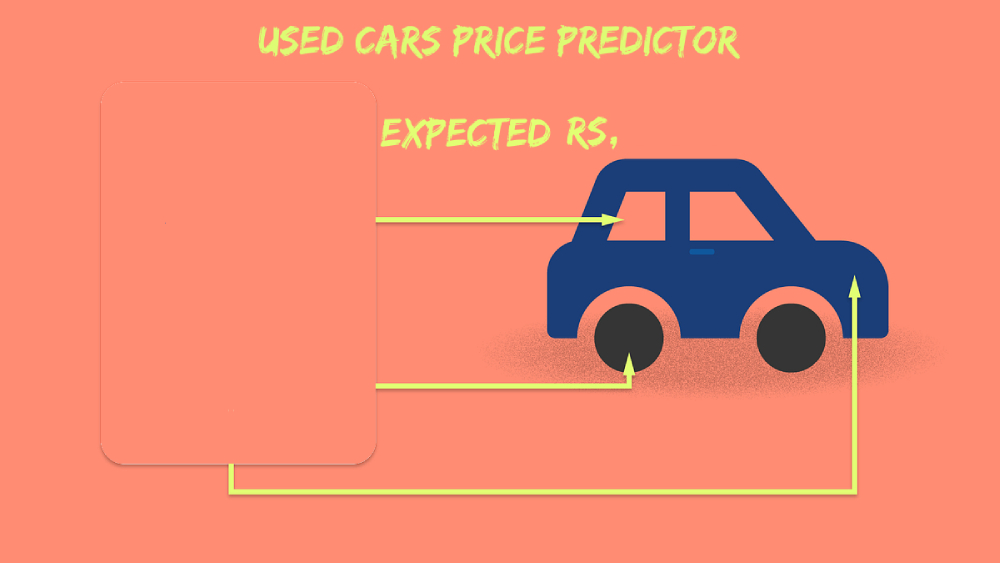
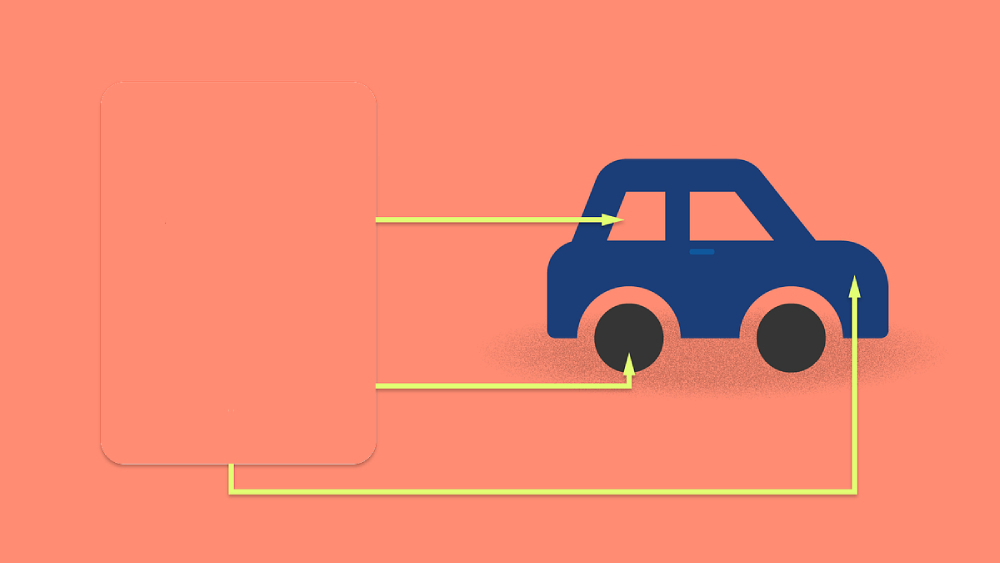
updated Version

Changed region(s): [[0.248, 0.0302, 0.744, 0.1208], [0.372, 0.2114, 0.62, 0.2718]]

diff --git a/templates/home.html b/templates/home.html
@@ -4,7 +4,7 @@
 <head>
     <meta charset="UTF-8">
     <meta name="viewport" content="width=device-width, initial-scale=1.0">
-    <link rel="stylesheet" href="https://cdnjs.cloudflare.com/ajax/libs/font-awesome/5.15.1/css/all.min.css">
+    <link rel="stylesheet" href="https://cdnjs.cloudflare.com/ajax/libs/font-awesome/6.0.0/css/all.min.css">
     <title>ML API</title>
 
 <style>
@@ -49,12 +49,12 @@ input[type="text"] {
     }
     .center {   
       position: absolute;
-      top: 180px; /* adjust the top position as needed */
-      left: 180px; /* adjust the left position as needed */
-      width: 450px; /* set the width of the table */
-      height: 600px;
+      top: 130px; /* adjust the top position as needed */
+      left: 160px; /* adjust the left position as needed */
+      width: 400px; /* set the width of the table */
+      height: 340px;
       border-collapse: collapse;
-      background-color: #ff8c73; /* set the background color with transparency */
+      background-color: #ff8c73; /* set the background color with transparency Orginal color  #ff8c73; */
       font-style:'edo_sz',;
       color: rgb(255, 255, 255);
       outline-color: #333;
@@ -63,7 +63,7 @@ input[type="text"] {
       border: 1px solid #ff8c73;
       padding: 8px;
       text-align: left;   
-      font-size: 22px;  
+      font-size: 18px;  
       text-shadow: -1px -1px 0 #000, 1px -1px 0 #000, -1px 1px 0 #000, 1px 1px 0 #000;;
     }
     .Header{
@@ -75,20 +75,27 @@ input[type="text"] {
         z-index: 1; 
     }
     .btn-primary{
-        height: 50px; 
-        width: 100px;
+        height: 30px; 
+        width: 70px;
         font-size: large;
     }
     .prediction-text {
-        top: 225px;
-        left: 1050px;
+        top: 210px;
+        left: 650px;
         position:absolute;
         font-size: 65px;
         color: #ddfb73; /* Change the color as needed */
         text-shadow: -2px -2px 0 #000, 2px -2px 0 #000, -2px 2px 0 #000, 2px 2px 0 #000;
     }
-        /* Navigation bar style */
-        .navbar {
+    .title{
+        top: 65px;
+        left: 400px;
+        position:absolute;
+        font-size: 65px;
+        color: #ddfb73; /* Change the color as needed */
+        text-shadow: -2px -2px 0 #000, 2px -2px 0 #000, -2px 2px 0 #000, 2px 2px 0 #000;
+    }
+    .navbar {
             background-color: #333;
             padding: 10px;
             color: #fff;
@@ -106,6 +113,7 @@ input[type="text"] {
             text-decoration: none;
             margin-right: 15px;
         }
+
 </style>
 
 </head>
@@ -118,6 +126,7 @@ input[type="text"] {
         </div>
         <!-- Add other navigation elements here -->
     </div>
+
     <div class="login">
         <img src="{{ url_for('static', filename='Latest.jpg') }}" alt="Your Image">
         <!-- Main Input For Receiving Query to our ML -->
@@ -225,6 +234,10 @@ input[type="text"] {
     </div>
     <div class="prediction-text" style="font-family: 'Edo SZ'">
         {{prediction_text}}
+    </div>
+    <div class="title" style="font-family: 'Edo SZ'">
+    <label> 
+        Used Cars Price Predictor</label>
     </div>
     
 </body>

diff --git a/app.py b/app.py
@@ -2,10 +2,12 @@ import pickle
 from flask import Flask,request,app,jsonify,url_for,render_template
 import numpy as np
 import pandas as pd
+from sklearn.tree import DecisionTreeRegressor
 
 app = Flask(__name__,static_url_path="/static")
 
 model = pickle.load(open('UsedCarPricePredictor.pkl','rb'))
+#model = DecisionTreeRegressor(random_state=42,monotonic_cst = [1, -1, 1])
 
 @app.route('/')
 
@@ -60,7 +62,7 @@ def predict_api():
     output =  model.predict(newdata)
     print(output[0])
     #return jsonify("Expected amount would be  "+str(output[0])+"  lakhs")
-    return render_template("home.html",prediction_text = str(output[0])+" lakhs")
+    return render_template("home.html",prediction_text = "Expected RS,"+str(output[0])+" lakhs")
 @app.route('/predict_PostMan',methods = ['POST'])
 def predict_PostMan():
     data = request.json['data']
